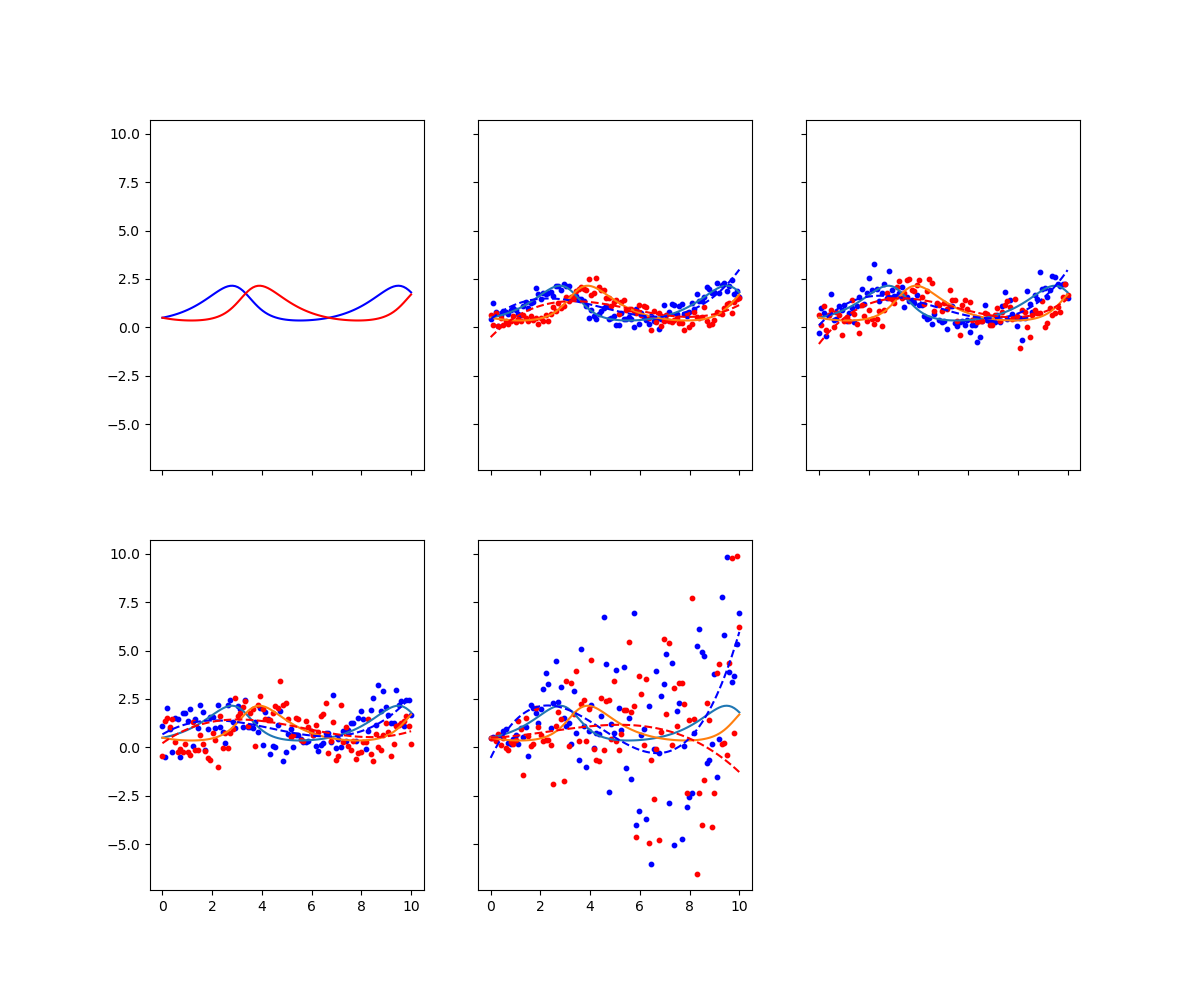
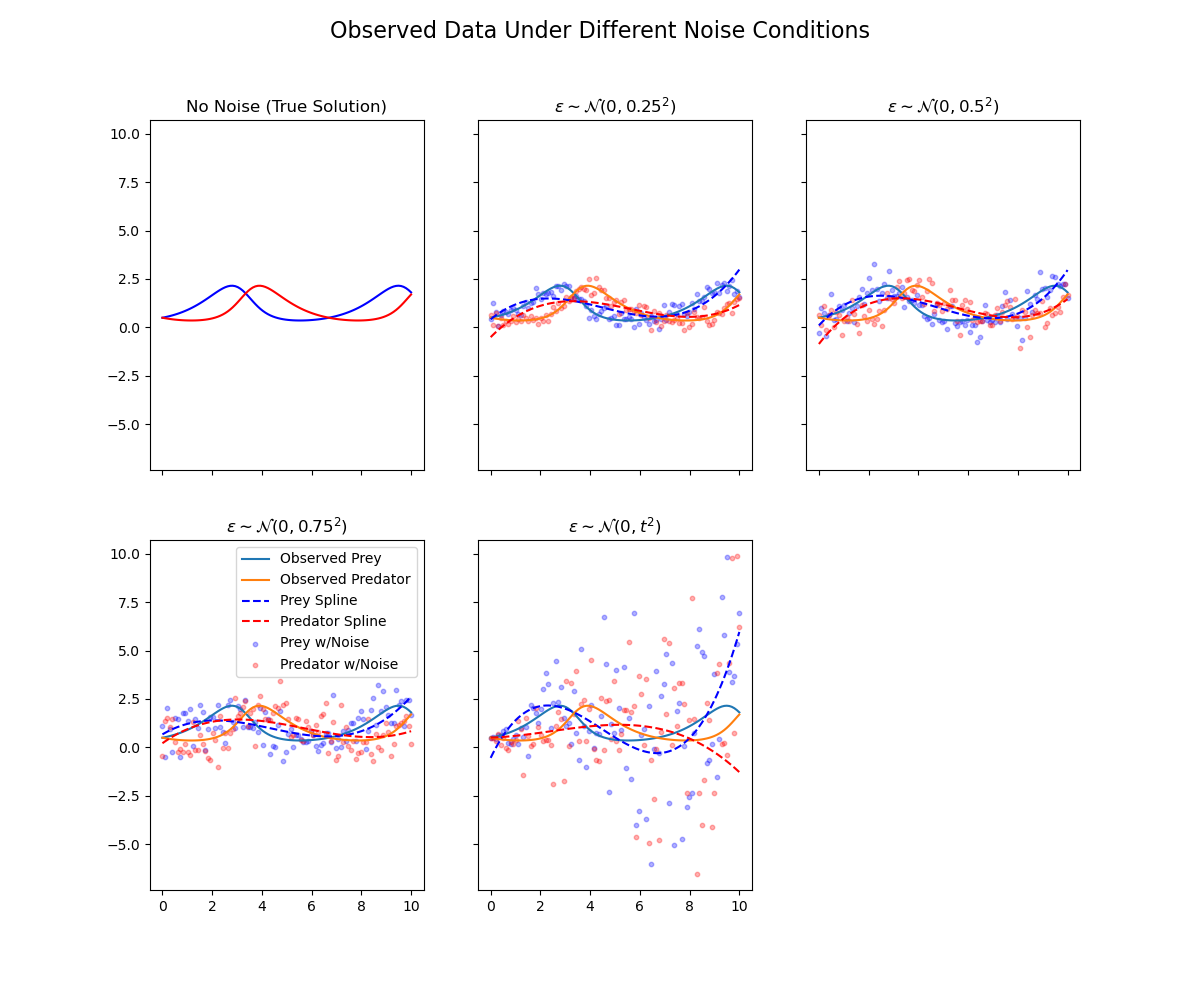
added presentation plots.

diff --git a/presentation/plot_observed_lv.py b/presentation/plot_observed_lv.py
@@ -19,22 +19,32 @@ if __name__ == "__main__":
     # Plot observed
     axes[0].plot(x, true_prey, color="blue", label="Observed Prey")
     axes[0].plot(x, true_pred, color="red", label="Observed Predator")
+    axes[0].set_title("No Noise (True Solution)")
 
     for i, model in enumerate(MODELS):
         # Need to always plot the true solution
-        axes[i+1].plot(x, true_prey)
-        axes[i+1].plot(x, true_pred)
+        axes[i+1].plot(x, true_prey, label="Observed Prey")
+        axes[i+1].plot(x, true_pred, label="Observed Predator")
         for smoothing in SMOOTHING:
             obs_path = os.path.join(OBSERVED_PATH, model+"_"+smoothing+f"/{model}_{smoothing}.npy")
             obs = np.load(obs_path)
             # Plot scatter if no smoothing
             if smoothing == "no_smoothing":
-                axes[i+1].scatter(x, obs[:,0], color="blue", s=10, label="Prey w/Noise")
-                axes[i+1].scatter(x, obs[:,1], color="red", s=10, label="Predator w/Noise")
+                axes[i+1].scatter(x, obs[:,0], color="blue", s=10, label="Prey w/Noise", alpha=0.3)
+                axes[i+1].scatter(x, obs[:,1], color="red", s=10, label="Predator w/Noise", alpha=0.3)
             # Plot dotted line for smoothing
             else:
                 axes[i+1].plot(x, obs[:,0], color="blue", linestyle='--', label="Prey Spline")
                 axes[i+1].plot(x, obs[:,1], color="red", linestyle='--', label="Predator Spline")
+
+        sigma = model[1:]
+        if sigma == "linear":
+            title = "$\\varepsilon\\sim\\mathcal{{N}}(0, t^2)$"
+        else:
+            title = f"$\\varepsilon\\sim\\mathcal{{N}}(0, {sigma}^2)$"
+        axes[i+1].set_title(title)
     
+    axes[-3].legend()
+    fig.suptitle("Observed Data Under Different Noise Conditions", fontsize=16)
     save_path = os.path.join(SAVE_PATH, "lv_observed.png")
     fig.savefig(save_path)
